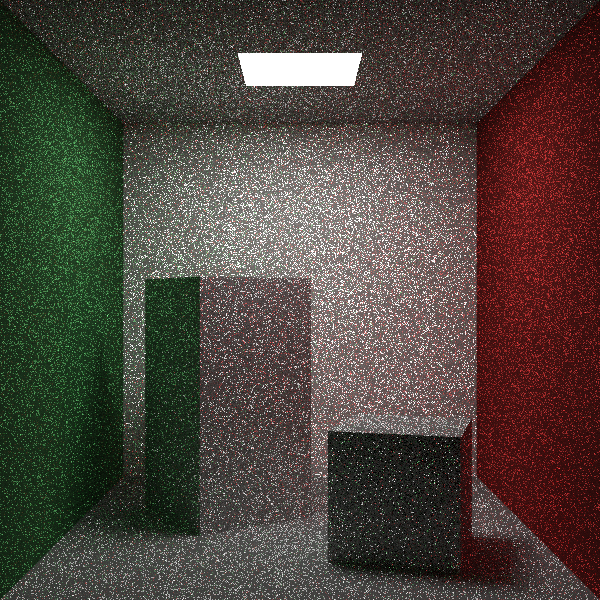
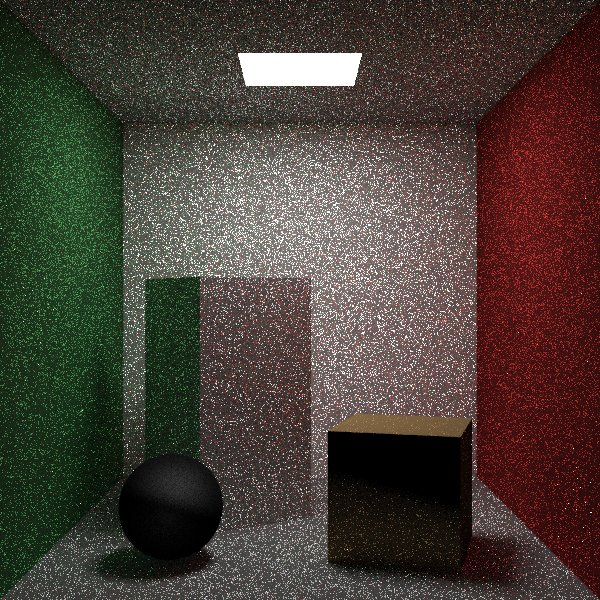
small fix

diff --git a/src/world/world_impl.rs b/src/world/world_impl.rs
@@ -3,7 +3,14 @@ use std::{sync::Arc, time::SystemTime, u32};
 use image::{ImageBuffer, Rgb};
 use rand::prelude::ThreadRng;
 
-use crate::{camera::Camera, entity::{obj_traits::Hittable, Panel, Rectangle, Sphere}, material::{DiffuseLight, DiffuseMat, Glass, Metal}, settings::{IMAGE_PATH, THREAD_NUM, WINDOW_HEIGHT, WINDOW_WIDTH}, some_math::{Color, Point, Vector3}, world::multithread_impl::ThreadPool};
+use crate::{
+    camera::Camera,
+    entity::{obj_traits::Hittable, Panel, Rectangle, Sphere},
+    material::{DiffuseLight, DiffuseMat, Glass, Metal},
+    settings::{IMAGE_PATH, THREAD_NUM, WINDOW_HEIGHT, WINDOW_WIDTH},
+    some_math::{Color, Point, Vector3},
+    world::multithread_impl::ThreadPool,
+};
 
 use super::World;
 
@@ -70,7 +77,7 @@ impl World {
         let red = DiffuseMat::new(Color::new([0.65, 0.05, 0.05]));
         let white = DiffuseMat::new(Color::new([0.75, 0.75, 0.75]));
         let green = DiffuseMat::new(Color::new([0.12, 0.45, 0.15]));
-        // let cupper = Metal::new(Color::new([0.7, 0.45, 0.2]), 0.5);
+        let cupper = Metal::new(Color::new([0.7, 0.45, 0.2]), 0.5);
         let glass = Glass::new(Color::new([0.9, 0.9, 0.9]), 1.5);
         let light = DiffuseLight::new(Color::new([7.0, 7.0, 7.0]));
         // light
@@ -151,8 +158,8 @@ impl World {
             ],
             Some(-5.0),
             // None,
-            Arc::new(white),
-            // Arc::new(blue),
+            // Arc::new(white),
+            Arc::new(cupper),
         )));
         self.add(Arc::new(Sphere::new(
             Point::new([150.0, 60.0, -160.0]),

diff --git a/src/material/glass_impl.rs b/src/material/glass_impl.rs
@@ -17,7 +17,7 @@ impl Glass {
 impl Material for Glass {
     fn scatter(&self, ray_in: &Ray, hit_normal: &Vector3, rng: &mut ThreadRng) -> ScatterInfo {
         let reflection_portion = self.get_fresnel(&ray_in.direction, hit_normal);
-        if rng.gen_bool(reflection_portion) {
+        if rng.gen_range(0.0..1.0) < reflection_portion {
             let scatter_dir = reflect(&ray_in.direction, hit_normal);
             return ScatterInfo {
                 scatter_dir: scatter_dir,
@@ -61,8 +61,7 @@ impl Material for Glass {
     }
 
     fn get_fresnel(&self, ray_in_dir: &Vector3, hit_normal: &Vector3) -> f64 {
-        // let f0 = 0.05;
-        // return f0 + (1.0 - f0) * ((*ray_in_dir) * (*hit_normal)).abs().powi(5);
-        1.0
+        let f0 = 0.05;
+        return f0 + (1.0 - f0) * ((*ray_in_dir) * (*hit_normal)).abs().powi(5);
     }
 }

diff --git a/src/some_math.rs b/src/some_math.rs
@@ -51,6 +51,6 @@ pub fn reflect(vec: &Vector3, normal: &Vector3) -> Vector3 {
 pub fn refract(vec: &Vector3, normal: &Vector3, factor: f64) -> Vector3 {
     let cos_theta = ((-1.0) * (*vec) * (*normal)).min(1.0);
     let r_out_perp = factor * (*vec + cos_theta * (*normal));
-    let r_out_para = (1.0 - r_out_perp.length_square()).abs().sqrt() * (*normal);
-    return r_out_para + r_out_perp;
+    let r_out_para = (-1.0) * (1.0 - r_out_perp.length_square()).abs().sqrt() * (*normal);
+    return (r_out_para + r_out_perp).normalize();
 }

diff --git a/src/world/multithread_impl.rs b/src/world/multithread_impl.rs
@@ -60,7 +60,7 @@ impl ThreadPool {
     }
 
     pub fn work(&self, w: u32) {
-        // let job = Box::new(w);
+        // let job = Box::new(w); 
         self.sender.send(Message::NewWork(w)).unwrap();
     }
 
